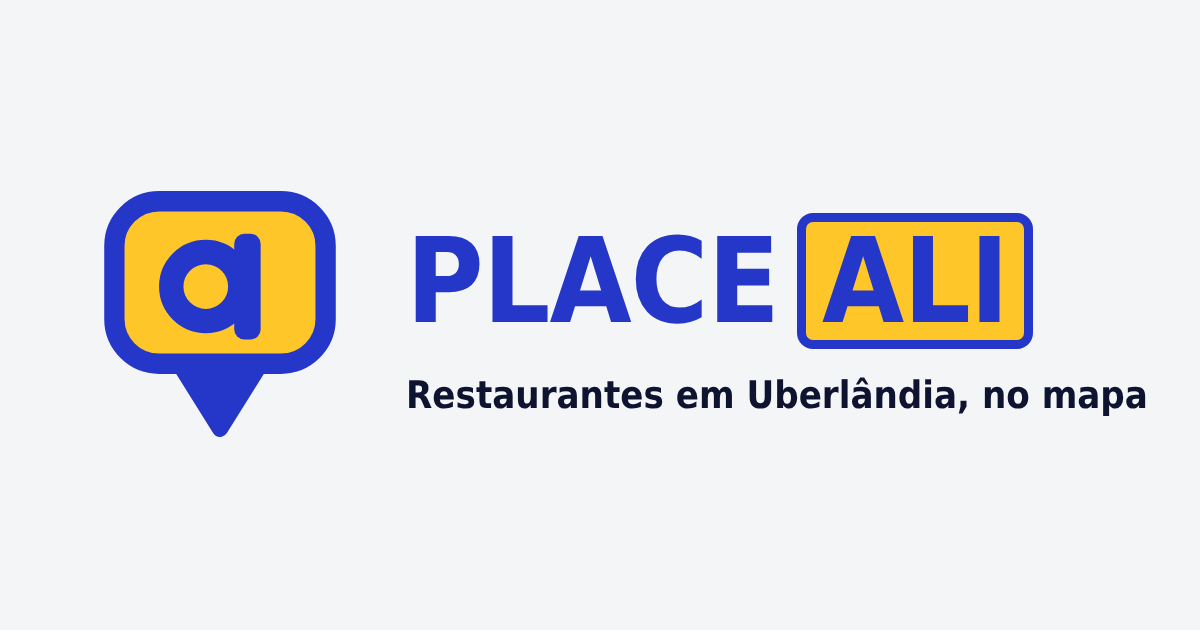
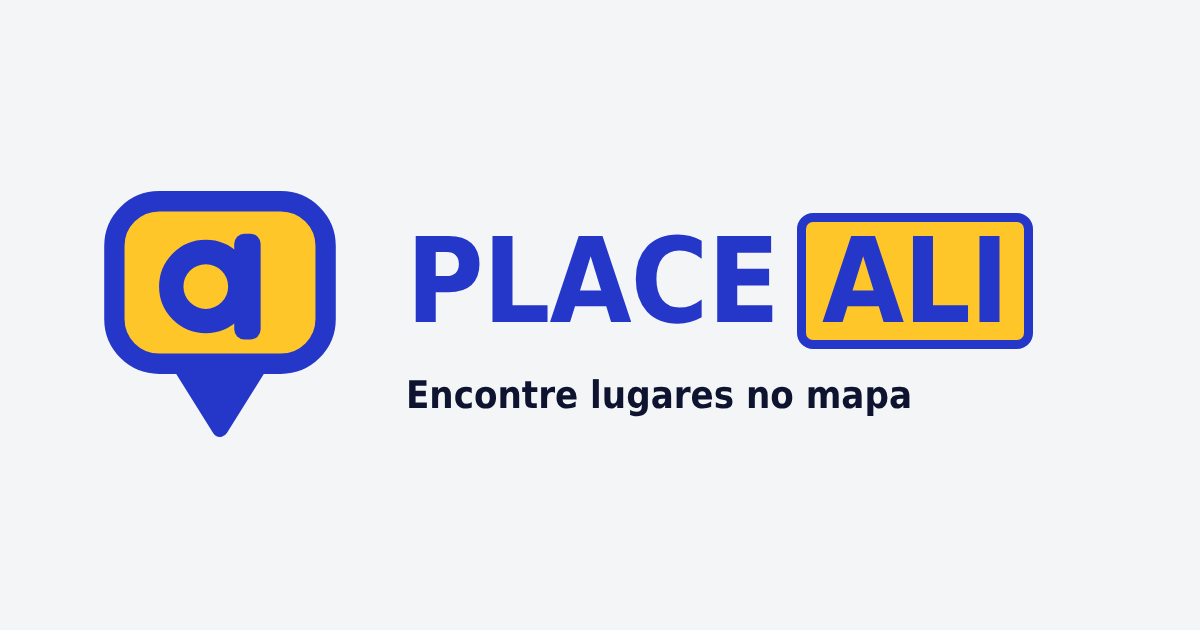
Textos gerais sem cidade nem categoria fixas: app de lugares, restaurantes são só o começo
Claude-Session: https://claude.ai/code/session_01HhX3x3AKxK5kWZcVKeWhVS

Changed region(s): [[0.3392, 0.6032, 0.9558, 0.6635]]

diff --git a/src/routes/__root.tsx b/src/routes/__root.tsx
@@ -10,7 +10,7 @@ import {
 } from "@tanstack/react-router";
 
 import appCss from "../styles.css?url";
-import { SITE_NAME, SITE_URL } from "@/lib/site";
+import { SITE_DESCRIPTION, SITE_NAME, SITE_TAGLINE, SITE_URL } from "@/lib/site";
 
 function NotFoundComponent() {
   return (
@@ -64,9 +64,6 @@ function ErrorComponent({ error, reset }: { error: Error; reset: () => void }) {
   );
 }
 
-const DESCRIPTION =
-  "Encontre restaurantes em Uberlândia no mapa: veja horários, contato, cardápio e como chegar em cada lugar.";
-
 export const Route = createRootRouteWithContext<{ queryClient: QueryClient }>()({
   head: () => ({
     meta: [
@@ -75,17 +72,17 @@ export const Route = createRootRouteWithContext<{ queryClient: QueryClient }>()(
         name: "viewport",
         content: "width=device-width, initial-scale=1, maximum-scale=1, user-scalable=no, viewport-fit=cover",
       },
-      { title: `${SITE_NAME} — Restaurantes em Uberlândia` },
-      { name: "description", content: DESCRIPTION },
+      { title: `${SITE_NAME} — ${SITE_TAGLINE}` },
+      { name: "description", content: SITE_DESCRIPTION },
       { property: "og:site_name", content: SITE_NAME },
-      { property: "og:title", content: `${SITE_NAME} — Restaurantes em Uberlândia` },
-      { property: "og:description", content: DESCRIPTION },
+      { property: "og:title", content: `${SITE_NAME} — ${SITE_TAGLINE}` },
+      { property: "og:description", content: SITE_DESCRIPTION },
       { property: "og:type", content: "website" },
       { property: "og:locale", content: "pt_BR" },
       { property: "og:image", content: `${SITE_URL}/og.png` },
       { name: "twitter:card", content: "summary_large_image" },
-      { name: "twitter:title", content: `${SITE_NAME} — Restaurantes em Uberlândia` },
-      { name: "twitter:description", content: DESCRIPTION },
+      { name: "twitter:title", content: `${SITE_NAME} — ${SITE_TAGLINE}` },
+      { name: "twitter:description", content: SITE_DESCRIPTION },
       { name: "twitter:image", content: `${SITE_URL}/og.png` },
       { name: "theme-color", content: "#2437C9" },
       { name: "mobile-web-app-capable", content: "yes" },

diff --git a/src/components/admin/RestaurantForm.tsx b/src/components/admin/RestaurantForm.tsx
@@ -5,6 +5,7 @@ import { supabase } from "@/integrations/supabase/client";
 import { Button } from "@/components/ui/button";
 import { Input } from "@/components/ui/input";
 import { Label } from "@/components/ui/label";
+import { DEFAULT_CITY } from "@/lib/site";
 import { Switch } from "@/components/ui/switch";
 import { NEIGHBORHOODS, NEIGHBORHOOD_BY_NAME } from "@/data/neighborhoods";
 import { categories, slugify } from "@/data/restaurants";
@@ -150,12 +151,12 @@ export function RestaurantForm({ id, onDone }: { id: string | null; onDone: () =
     setSearching(true);
     setSearchErr(null);
     try {
-      // Nominatim (OpenStreetMap) — gratuito, sem chave. Viés para Uberlândia/MG/BR.
+      // Nominatim (OpenStreetMap) — gratuito, sem chave. Viés para a cidade padrão (DEFAULT_CITY).
       const url = new URL("https://nominatim.openstreetmap.org/search");
       url.searchParams.set("format", "json");
       url.searchParams.set("limit", "1");
       url.searchParams.set("countrycodes", "br");
-      url.searchParams.set("q", `${q}, Uberlândia, MG`);
+      url.searchParams.set("q", `${q}, ${DEFAULT_CITY.name}, ${DEFAULT_CITY.region}`);
       const res = await fetch(url.toString(), { headers: { "Accept-Language": "pt-BR" } });
       if (!res.ok) throw new Error("Falha na busca");
       const arr = (await res.json()) as Array<{ lat: string; lon: string; display_name: string }>;

diff --git a/src/lib/seo.ts b/src/lib/seo.ts
@@ -1,5 +1,6 @@
 import { priceFromLabel, type Restaurant } from "@/data/restaurants";
 import { safeHttpUrl } from "@/lib/safe-url";
+import { DEFAULT_CITY } from "@/lib/site";
 
 const WEEKDAYS = ["Monday", "Tuesday", "Wednesday", "Thursday", "Friday"];
 const WEEKEND = ["Saturday", "Sunday"];
@@ -58,7 +59,7 @@ export function ifoodUrl(r: Pick<Restaurant, "ifoodUrl" | "menuUrl">): string | 
 
 export function restaurantDescription(r: Restaurant): string {
   if (r.description) return r.description;
-  return `${r.name}: restaurante de comida ${r.category.toLowerCase()} no bairro ${r.neighborhood}, Uberlândia${
+  return `${r.name}: restaurante de comida ${r.category.toLowerCase()} no bairro ${r.neighborhood}, ${DEFAULT_CITY.name}${
     r.delivery ? ", com delivery" : ""
   }.`;
 }
@@ -90,8 +91,8 @@ export function restaurantJsonLd(r: Restaurant): string {
       ? {
           "@type": "PostalAddress",
           streetAddress: r.address,
-          addressLocality: "Uberlândia",
-          addressRegion: "MG",
+          addressLocality: DEFAULT_CITY.name,
+          addressRegion: DEFAULT_CITY.region,
           addressCountry: "BR",
         }
       : undefined,

diff --git a/src/components/RestaurantMap.tsx b/src/components/RestaurantMap.tsx
@@ -308,7 +308,7 @@ export function RestaurantMap() {
         />
         <div className="mt-2 flex items-center justify-between px-4">
           <span className="pointer-events-auto text-xs font-medium text-foreground/70">
-            Uberlândia · {filtered.length} {filtered.length === 1 ? "lugar" : "lugares"}
+            {filtered.length} {filtered.length === 1 ? "lugar" : "lugares"}
           </span>
           <FilterMenu
             category={category}
@@ -326,8 +326,8 @@ export function RestaurantMap() {
             className="mx-6 rounded-2xl p-6 text-center shadow-lg"
             style={{ background: "rgba(255,255,255,0.96)" }}
           >
-            <p className="letreiro text-3xl text-primary">Nenhum restaurante</p>
-            <p className="mt-2 text-sm text-muted-foreground">Nenhum lugar bate com esses filtros. Remova um filtro ou limpe a busca.</p>
+            <p className="letreiro text-3xl text-primary">Nenhum lugar encontrado</p>
+            <p className="mt-2 text-sm text-muted-foreground">Nada bate com esses filtros. Remova um filtro ou limpe a busca.</p>
           </div>
         </div>
       )}

diff --git a/src/routes/index.tsx b/src/routes/index.tsx
@@ -1,14 +1,15 @@
 import { createFileRoute } from "@tanstack/react-router";
 import { Suspense } from "react";
 import { RestaurantMap } from "@/components/RestaurantMap";
+import { SITE_DESCRIPTION, SITE_NAME, SITE_TAGLINE } from "@/lib/site";
 
 export const Route = createFileRoute("/")({
   head: () => ({
     meta: [
-      { title: "Onde Comer — Uberlândia" },
-      { name: "description", content: "Descubra os melhores restaurantes de Uberlândia em um mapa rápido e elegante." },
-      { property: "og:title", content: "Onde Comer — Uberlândia" },
-      { property: "og:description", content: "Mapa de restaurantes de Uberlândia. Decida em segundos." },
+      { title: `${SITE_NAME} — ${SITE_TAGLINE}` },
+      { name: "description", content: SITE_DESCRIPTION },
+      { property: "og:title", content: `${SITE_NAME} — ${SITE_TAGLINE}` },
+      { property: "og:description", content: SITE_DESCRIPTION },
     ],
   }),
   component: Index,

diff --git a/src/routes/restaurante.$slug.tsx b/src/routes/restaurante.$slug.tsx
@@ -13,6 +13,7 @@ import {
   restaurantJsonLd,
 } from "@/lib/seo";
 import { safeHttpUrl } from "@/lib/safe-url";
+import { DEFAULT_CITY, SITE_NAME } from "@/lib/site";
 import { priceFromLabel, slugify, type Restaurant } from "@/data/restaurants";
 
 export const Route = createFileRoute("/restaurante/$slug")({
@@ -39,12 +40,12 @@ export const Route = createFileRoute("/restaurante/$slug")({
     if (!r) {
       return {
         meta: [
-          { title: "Restaurante não encontrado | Placeali" },
+          { title: "Lugar não encontrado | Placeali" },
           { name: "robots", content: "noindex" },
         ],
       };
     }
-    const title = `${r.name} — ${r.category} em ${r.neighborhood} | Placeali Uberlândia`;
+    const title = `${r.name} — ${r.category} em ${r.neighborhood}, ${DEFAULT_CITY.name} | ${SITE_NAME}`;
     const description = restaurantDescription(r);
     const image = safeHttpUrl(r.image);
     return {

diff --git a/src/lib/site.ts b/src/lib/site.ts
@@ -1,3 +1,14 @@
 /** Endereço público do site. Troque aqui quando o domínio próprio estiver ligado. */
 export const SITE_URL = "https://lexzo-app.vercel.app";
 export const SITE_NAME = "Placeali";
+
+/** Frase curta usada nos títulos e descrições gerais (sem cidade e sem categoria). */
+export const SITE_TAGLINE = "Encontre lugares no mapa";
+export const SITE_DESCRIPTION =
+  "Encontre lugares no mapa: veja informações, contato, horários e como chegar. Começando pelos restaurantes.";
+
+/**
+ * Única cidade cadastrada por enquanto. Só é usada em dados de cada lugar (endereço no Google,
+ * busca de endereço no admin). Quando houver mais cidades, isso vira uma coluna `city` no banco.
+ */
+export const DEFAULT_CITY = { name: "Uberlândia", region: "MG" };

diff --git a/src/components/SearchBar.tsx b/src/components/SearchBar.tsx
@@ -56,7 +56,7 @@ export function SearchBar({ restaurants, value, onChange, onSelectNeighborhood, 
             setOpen(true);
           }}
           onFocus={() => setOpen(true)}
-          placeholder="Buscar bairro ou restaurante…"
+          placeholder="Buscar bairro ou lugar…"
           className="w-full bg-transparent text-base outline-none placeholder:text-muted-foreground"
           aria-label="Buscar"
         />

diff --git a/README.md b/README.md
@@ -1,7 +1,7 @@
-# Placeali — mapa de restaurantes de Uberlândia
+# Placeali — encontre lugares no mapa
 
-Mapa com os restaurantes, uma página por estabelecimento (indexável pelo Google) e um painel `/admin`
-para criar e gerenciar os restaurantes.
+Mapa de lugares (começando pelos restaurantes), uma página por estabelecimento (indexável pelo Google)
+e um painel `/admin` para criar e gerenciar os estabelecimentos.
 
 **Stack:** TanStack Start (React 19) · Supabase (Postgres + Auth) · MapLibre · Tailwind v4 · Nitro · deploy na Vercel
 
